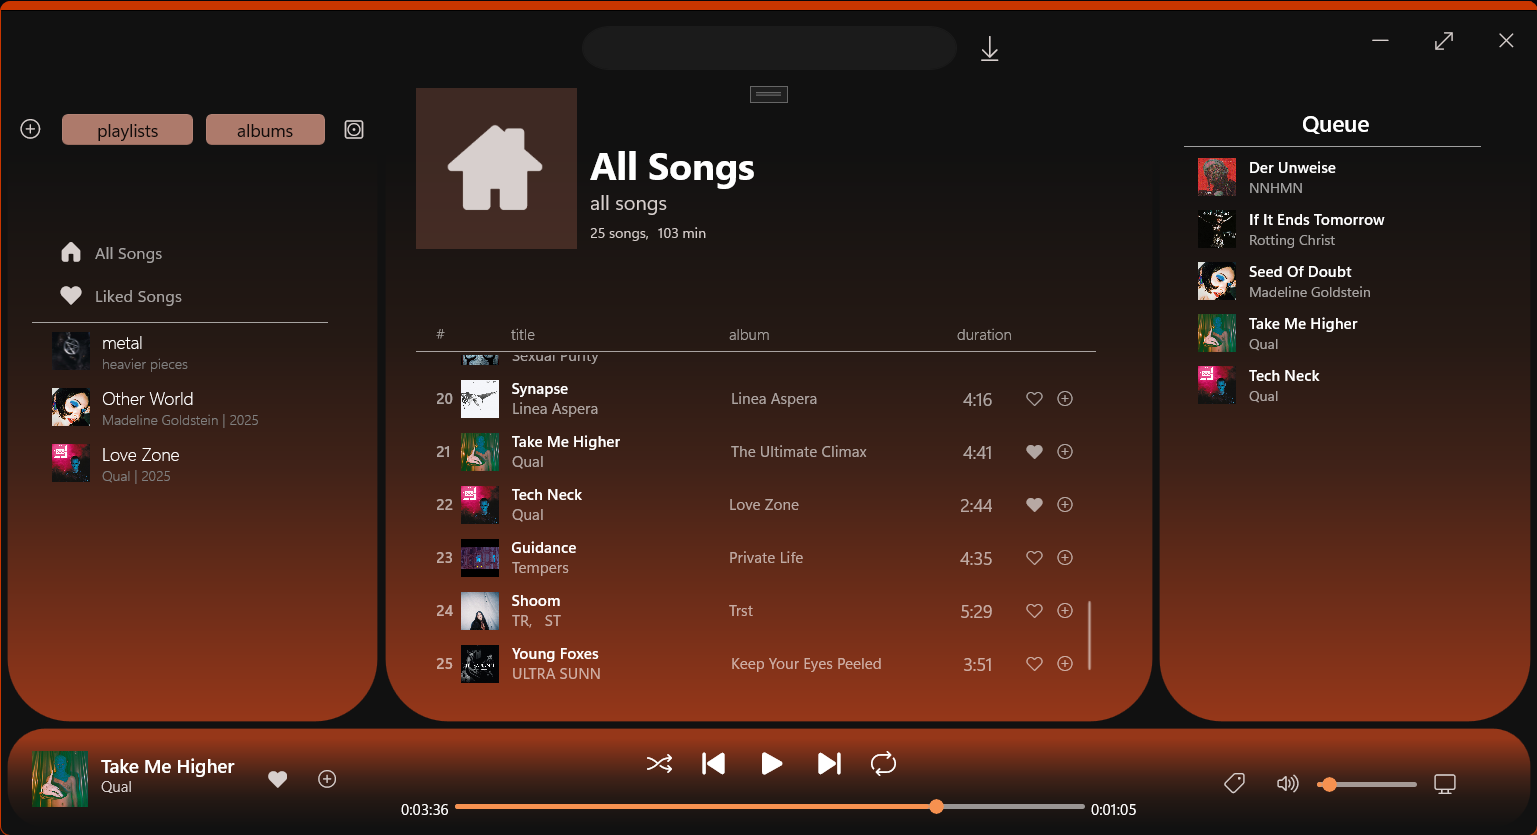
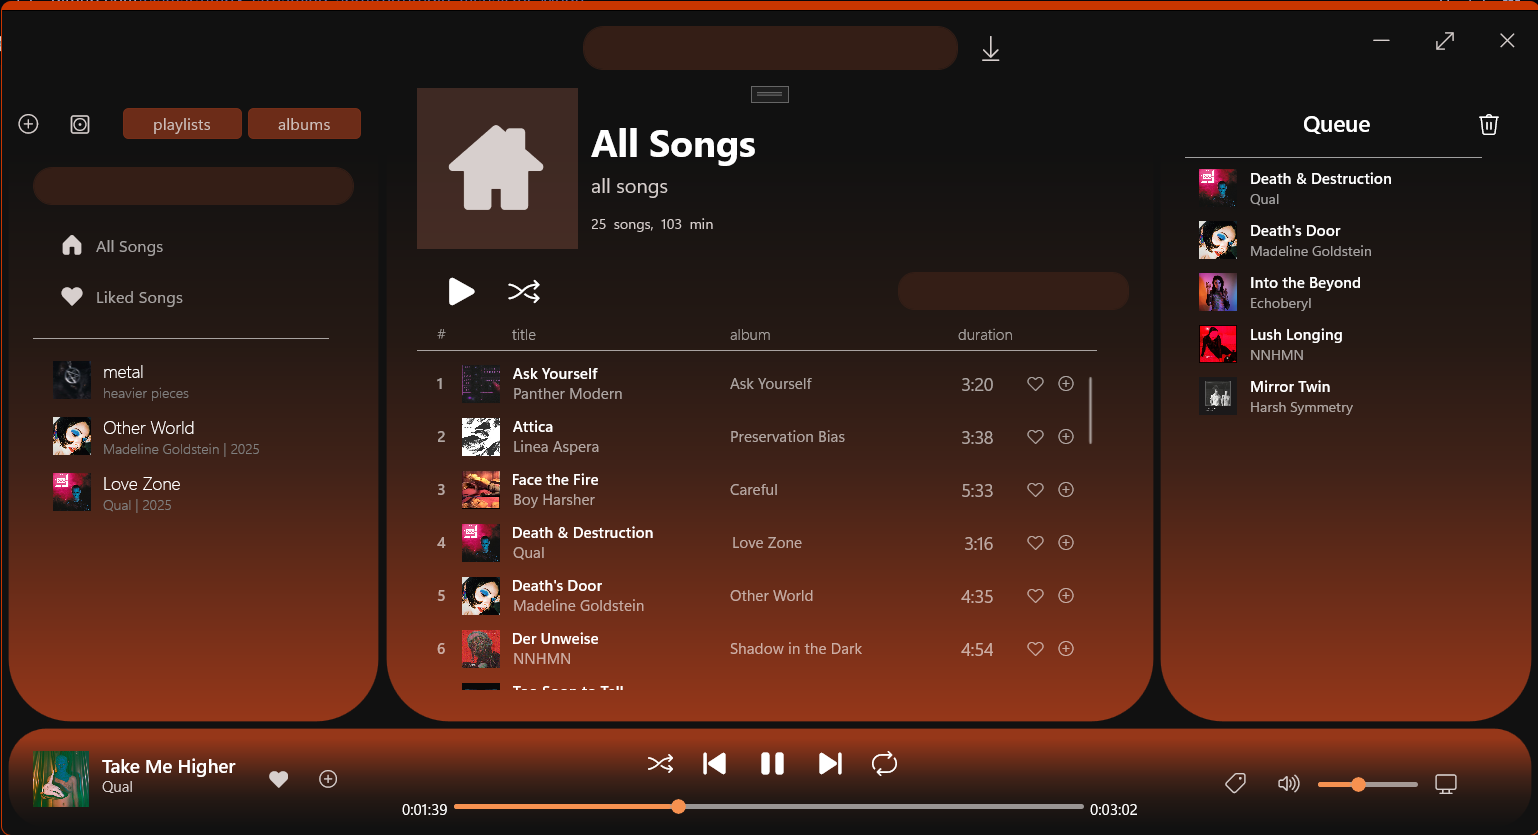
working search bars, tweaked ui a bit, button for clearing queue, added buttons for playing and playing shuffled collection, new screens for showcase

diff --git a/Kith/MainWindow.xaml b/Kith/MainWindow.xaml
@@ -352,20 +352,23 @@
                                 QuerySubmitted="MainSearch_QuerySubmitted"
                                 HorizontalAlignment="Center"
                                 VerticalAlignment="Center"
+                                VerticalContentAlignment="Center"
                                 ToolTipService.ToolTip="download by youtube url"
                                 Width="300"
                                 Height="35"
                                 Margin="0,0,0,0" 
-                                CornerRadius="22"
-                                Background="{StaticResource BrokenBlack}"
+                                CornerRadius="16"
+                                Background="#341e16"
                                 Foreground="{ThemeResource ButtonForegroundBrush}"
-                                BorderBrush="{StaticResource BrokenBlack}"
+                                BorderBrush="#341e16"
                                 Grid.Column="1">
                         <AutoSuggestBox.Resources>
-                            <SolidColorBrush x:Key="TextControlBackgroundPointerOver" Color="{StaticResource LighterBrokenBlack}"/>
-                            <SolidColorBrush x:Key="TextControlBorderBrushPointerOver" Color="{StaticResource LighterBrokenBlack}"/>
+                            <SolidColorBrush x:Key="TextControlBackgroundPointerOver" Color="#40251b"/>
+                            <SolidColorBrush x:Key="TextControlBorderBrushPointerOver" Color="#40251b"/>
                             <SolidColorBrush x:Key="TextControlBackgroundGotFocus" Color="{StaticResource FoxyDark}"/>
-                        </AutoSuggestBox.Resources>
+                            <SolidColorBrush x:Key="TextControlBackgroundFocused" Color="#4d2a1d"/>
+                            <SolidColorBrush x:Key="TextControlBorderBrushFocused" Color="#4d2a1d"/>
+                    </AutoSuggestBox.Resources>
                 </AutoSuggestBox>
 
                 <ProgressRing x:Name="downloadProgressRing"
@@ -545,13 +548,51 @@
                         <RowDefinition Height="1*" />
                     </Grid.RowDefinitions>
                     <Grid.ColumnDefinitions>
-                        <ColumnDefinition Width="1.5*" />
+                        <ColumnDefinition Width="1*" />
+                        <ColumnDefinition Width="1*" />
                         <ColumnDefinition Width="1*" />
                     </Grid.ColumnDefinitions>
 
+                    <StackPanel Orientation="Horizontal" 
+                                Grid.Row="1"
+                                Grid.Column="0"
+                                Margin="40,0,0,5"
+                                Spacing="10">
+
+                        <Button x:Name="CollectionPlayPauseButton"
+                                      Margin="0,0,0,0"
+                                      Height="40"
+                                      Width="40"
+                                      HorizontalAlignment="Left"
+                                      Click="CollectionPlayPauseButton_Click"
+                                      VerticalAlignment="Center"
+                                      Padding="0,0,0,0"
+                                      VerticalContentAlignment="Center"
+                                      Background="Transparent"
+                                      BorderBrush="Transparent">
+                            <FontIcon x:Name="CollectionPlayPause" Glyph="&#xF5B0;" FontSize="25" />
+                        </Button>
+
+                        <Button x:Name="CollectionShuffleButton"
+                                Margin="0,0,0,0"
+                                Height="40"
+                                Width="40"
+                                HorizontalAlignment="Left"
+                                Click="CollectionShuffleButton_Click"
+                                VerticalAlignment="Center"
+                                Padding="0,0,0,0"
+                                VerticalContentAlignment="Center"
+                                Background="Transparent"
+                                BorderBrush="Transparent">
+                            <FontIcon x:Name="CollectionSuhffle" Glyph="&#xE8B1;" FontSize="25" />
+                        </Button>
+
+                    </StackPanel>
+                    
+
                     <AutoSuggestBox x:Name="SongFilter"
                                     Grid.Row="1"
-                                    Grid.Column="1"
+                                    Grid.Column="2"
                                     Margin="0,0,20,5"
                                     TextChanged="filterSongs"
                                     FontSize="12"
@@ -563,14 +604,16 @@
                                     Padding="10,0,10,0"
                                     ToolTipService.ToolTip="find song"
                                     CornerRadius="13"
-                                    Background="{StaticResource LighterBrokenBlack}"
+                                    Background="#341e16"
                                     Foreground="{ThemeResource ButtonForegroundBrush}"
-                                    BorderBrush="{StaticResource LighterBrokenBlack}">
-                                    <AutoSuggestBox.Resources>
+                                    BorderBrush="#341e16">
+                        <AutoSuggestBox.Resources>
                             <x:Double x:Key="TextControlThemeMinHeight">25</x:Double>
-                            <SolidColorBrush x:Key="TextControlBackgroundPointerOver" Color="{StaticResource LighterBrokenBlack}"/>
-                            <SolidColorBrush x:Key="TextControlBorderBrushPointerOver" Color="{StaticResource LighterBrokenBlack}"/>
+                            <SolidColorBrush x:Key="TextControlBackgroundPointerOver" Color="#40251b"/>
+                            <SolidColorBrush x:Key="TextControlBorderBrushPointerOver" Color="#40251b"/>
                             <SolidColorBrush x:Key="TextControlBackgroundGotFocus" Color="{StaticResource FoxyDark}"/>
+                            <SolidColorBrush x:Key="TextControlBackgroundFocused" Color="#4d2a1d"/>
+                            <SolidColorBrush x:Key="TextControlBorderBrushFocused" Color="#4d2a1d"/>
                         </AutoSuggestBox.Resources>
                     </AutoSuggestBox>
                 </Grid>
@@ -829,50 +872,64 @@
                 </Button>
 
                 <ToggleButton x:Name="playlistFilterButton"
-                  Grid.Row="0"
-                  Grid.Column="2"
-                  Click="playlistFilterButton_Click" 
-                  ClickMode="Release"
-                  Margin="20,10,0,10"
-                  Height="25"
-                  Content="playlists"
-                  IsChecked="True"
-                  ToolTipService.ToolTip="filter playlists"
-                  Padding="0"
-                  HorizontalAlignment="Stretch"
-                  VerticalAlignment="Stretch"
-                  Opacity="0.9"
-                  Foreground="{StaticResource BrokenWhite}"
-                  BorderBrush="{StaticResource BrokenWhite}"
-                  Background="Transparent">
+                              Grid.Row="0"
+                              Grid.Column="2"
+                              Click="playlistFilterButton_Click" 
+                              ClickMode="Release"
+                              Margin="20,10,0,10"
+                              Height="25"
+                              Content="playlists"
+                              IsChecked="True"
+                              ToolTipService.ToolTip="filter playlists"
+                              Padding="0"
+                              HorizontalAlignment="Stretch"
+                              VerticalAlignment="Stretch"
+                              VerticalContentAlignment="Center"
+                              Opacity="0.9"
+                              Foreground="{StaticResource BrokenWhite}"
+                              BorderBrush="{StaticResource BrokenWhite}"
+                              Background="Transparent"
+                              FontSize="13">
                     <ToggleButton.Resources>
-                        <SolidColorBrush x:Key="ToggleButtonBackgroundChecked" Color="#bf8675"/>
-                        <SolidColorBrush x:Key="ToggleButtonBackgroundCheckedPointerOver" Color="#ca9b8c"/>
-                        <SolidColorBrush x:Key="ToggleButtonBackgroundCheckedPressed" Color="#9f4a30"/>
+                        <SolidColorBrush x:Key="ToggleButtonBackgroundChecked" Color="#762f19"/>
+                        <SolidColorBrush x:Key="ToggleButtonBackgroundPointerOver" Color="#301d16"/>
+                        <SolidColorBrush x:Key="ToggleButtonBorderBrushPointerOver" Color="#301d16"/>
+                        <SolidColorBrush x:Key="ToggleButtonBackgroundCheckedPointerOver" Color="#762f19"/>
+                        <SolidColorBrush x:Key="ToggleButtonBackgroundCheckedPressed" Color="#762f19"/>
+                        <SolidColorBrush x:Key="ToggleButtonBorderBrushChecked" Color="#762f19"/>
+                        <SolidColorBrush x:Key="ToggleButtonForegroundChecked" Color="{StaticResource BrokenWhite}"/>
+                        <SolidColorBrush x:Key="ToggleButtonForegroundCheckedPointerOver" Color="White"/>
                     </ToggleButton.Resources>
                 </ToggleButton>
 
                 <ToggleButton x:Name="albumFilterButton"
-                  Grid.Row="0"
-                  Grid.Column="3"
-                  Click="albumFilterButton_Click" 
-                  IsChecked="True"
-                  ClickMode="Release"
-                  Margin="5,10,20,10"
-                  Opacity="0.9"
-                  Height="25"
-                  Content="albums"
-                  ToolTipService.ToolTip="filter playlists"
-                  Padding="0"
-                  HorizontalAlignment="Stretch"
-                  VerticalAlignment="Stretch"
-                  Foreground="{StaticResource BrokenWhite}"
-                  BorderBrush="{StaticResource BrokenWhite}"
-                  Background="Transparent">
+                              Grid.Row="0"
+                              Grid.Column="3"
+                              Click="albumFilterButton_Click" 
+                              IsChecked="True"
+                              ClickMode="Release"
+                              Margin="5,10,20,10"
+                              Opacity="0.9"
+                              Height="25"
+                              Content="albums"
+                              ToolTipService.ToolTip="filter playlists"
+                              Padding="0"
+                              HorizontalAlignment="Stretch"
+                              VerticalAlignment="Stretch"
+                              VerticalContentAlignment="Center"
+                              Foreground="{StaticResource BrokenWhite}"
+                              BorderBrush="{StaticResource BrokenWhite}"
+                              Background="Transparent"
+                              FontSize="13">
                     <ToggleButton.Resources>
-                        <SolidColorBrush x:Key="ToggleButtonBackgroundChecked" Color="#bf8675"/>
-                        <SolidColorBrush x:Key="ToggleButtonBackgroundCheckedPointerOver" Color="#ca9b8c"/>
-                        <SolidColorBrush x:Key="ToggleButtonBackgroundCheckedPressed" Color="#9f4a30"/>
+                        <SolidColorBrush x:Key="ToggleButtonBackgroundChecked" Color="#762f19"/>
+                        <SolidColorBrush x:Key="ToggleButtonBackgroundPointerOver" Color="#301d16"/>
+                        <SolidColorBrush x:Key="ToggleButtonBorderBrushPointerOver" Color="#301d16"/>
+                        <SolidColorBrush x:Key="ToggleButtonBackgroundCheckedPointerOver" Color="#762f19"/>
+                        <SolidColorBrush x:Key="ToggleButtonBackgroundCheckedPressed" Color="#762f19"/>
+                        <SolidColorBrush x:Key="ToggleButtonBorderBrushChecked" Color="#762f19"/>
+                        <SolidColorBrush x:Key="ToggleButtonForegroundChecked" Color="{StaticResource BrokenWhite}"/>
+                        <SolidColorBrush x:Key="ToggleButtonForegroundCheckedPointerOver" Color="White"/>
                     </ToggleButton.Resources>
                 </ToggleButton>
 
@@ -890,14 +947,16 @@
                     Margin="25,5,25,10"
                     ToolTipService.ToolTip="find collection"
                     CornerRadius="15"
-                    Background="{StaticResource BrokenBlack}"
+                    Background="#341e16"
                     Foreground="{ThemeResource ButtonForegroundBrush}"
-                    BorderBrush="{StaticResource BrokenBlack}">
+                    BorderBrush="#341e16">
                     <AutoSuggestBox.Resources>
                         <x:Double x:Key="TextControlThemeMinHeight">20</x:Double>
-                        <SolidColorBrush x:Key="TextControlBackgroundPointerOver" Color="{StaticResource LighterBrokenBlack}"/>
-                        <SolidColorBrush x:Key="TextControlBorderBrushPointerOver" Color="{StaticResource LighterBrokenBlack}"/>
+                        <SolidColorBrush x:Key="TextControlBackgroundPointerOver" Color="#40251b"/>
+                        <SolidColorBrush x:Key="TextControlBorderBrushPointerOver" Color="#40251b"/>
                         <SolidColorBrush x:Key="TextControlBackgroundGotFocus" Color="{StaticResource FoxyDark}"/>
+                        <SolidColorBrush x:Key="TextControlBackgroundFocused" Color="#4d2a1d"/>
+                        <SolidColorBrush x:Key="TextControlBorderBrushFocused" Color="#4d2a1d"/>
                     </AutoSuggestBox.Resources>
                 </AutoSuggestBox>
 
@@ -1078,6 +1137,20 @@
                     <RowDefinition Height="Auto"/>
                     <RowDefinition Height="*"/>
                 </Grid.RowDefinitions>
+
+                <Button x:Name="QueueClearButton"
+                        Margin="0,0,20,10"
+                        Height="40"
+                        Width="40"
+                        HorizontalAlignment="Right"
+                        Click="QueueClearButton_Click"
+                        VerticalAlignment="Center"
+                        Padding="0,0,0,0"
+                        VerticalContentAlignment="Center"
+                        Background="Transparent"
+                        BorderBrush="Transparent">
+                    <FontIcon x:Name="BinIcon" Glyph="&#xE74D;" FontSize="17" />
+                </Button>
 
                 <TextBlock Grid.Row="0" 
                                    Text="Queue" 

diff --git a/Kith/MainWindow.xaml.cs b/Kith/MainWindow.xaml.cs
@@ -1535,13 +1535,24 @@ namespace Kith
         private void filterCollections(AutoSuggestBox sender, AutoSuggestBoxTextChangedEventArgs args)
         {
             string filter = CollectionFilter.Text;
-            //Console.WriteLine($"filter: {filter}");
 
             var filtered = CollectionViewModel.AllCollections.Where(c => c.collection_name.Contains(filter, StringComparison.OrdinalIgnoreCase) || c.collection_description.Contains(filter, StringComparison.OrdinalIgnoreCase));
+
+            var currentSelection = CollectionViewModel.SelectedCollection;
 
             CollectionViewModel.filtered = new ObservableCollection<Collection>(filtered);
 
             CollectionsView.ItemsSource = CollectionViewModel.filtered;
+
+            if (currentSelection != null && CollectionViewModel.filtered.Contains(currentSelection))
+            {
+                CollectionsView.SelectedItem = currentSelection;
+                CollectionViewModel.SelectedCollection = currentSelection;
+            }
+            else if (CollectionViewModel.filtered.Count > 0)
+            {
+                CollectionsView.SelectedItem = CollectionViewModel.filtered[0];
+            }
         }
 
         private void filterSongs(AutoSuggestBox sender, AutoSuggestBoxTextChangedEventArgs args)
@@ -1554,6 +1565,40 @@ namespace Kith
             ViewModel.filtered = new ObservableCollection<Song>(filtered);
 
             SongsView.ItemsSource = ViewModel.filtered;
+        }
+
+        private void CollectionShuffleButton_Click(object sender, RoutedEventArgs e)
+        {
+            ViewModel.SongQueue.Clear();
+
+            List<Song> col_songs = ViewModel.CurrentCollectionSongs.ToList<Song>();
+
+            while(col_songs.Count() != 0)
+            {
+                Random rnd = new Random();
+                int rand = rnd.Next(0, col_songs.Count);
+                ViewModel.SongQueue.add(col_songs[rand]);
+                col_songs.RemoveAt(rand);
+            }
+            LoadAndPlaySong(ViewModel.SongQueue.pop(), TimeSpan.Zero);
+        }
+
+        private void CollectionPlayPauseButton_Click(object sender, RoutedEventArgs e)
+        {
+            ViewModel.SongQueue.Clear();
+
+            List<Song> col_songs = ViewModel.CurrentCollectionSongs.ToList<Song>();
+
+            for(int i=0;  i<col_songs.Count(); i++)
+            {
+                ViewModel.SongQueue.add(col_songs[i]);
+            }
+            LoadAndPlaySong(ViewModel.SongQueue.pop(), TimeSpan.Zero);
+        }
+
+        private void QueueClearButton_Click(object sender, RoutedEventArgs e)
+        {
+            ViewModel.SongQueue.Clear();
         }
     }
 }

diff --git a/Kith/Sources/Queue.cs b/Kith/Sources/Queue.cs
@@ -50,5 +50,10 @@ namespace Kith.Sources
         {
             this.queue.Remove(s);
         }
+
+        public void Clear()
+        {
+            queue.Clear();
+        }
     }
 }
